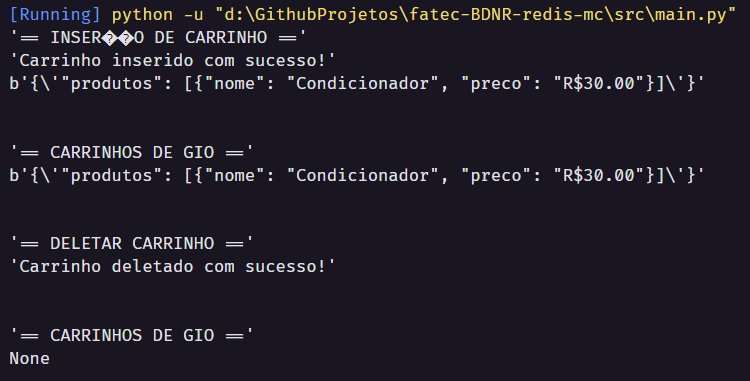
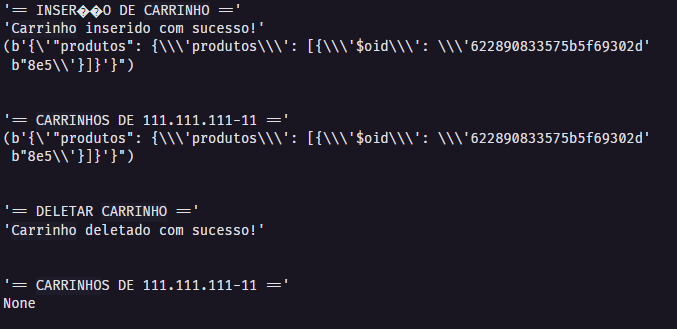
feat: get from mongo

diff --git a/src/controllers/cartController.py b/src/controllers/cartController.py
@@ -1,9 +1,21 @@
 import connectBD as connectDB
 from pprint import pprint
+import simplejson as json
+from bson import json_util
 
-def insert(userName, product):
-    myRedis = connectDB.connect()
-    key = f'carrinho:{userName}' 
+def getDataFromMongo(): 
+    mydb = connectDB.connectMongo()
+    mycol = mydb.usuario
+    results = mycol.find()
+    resultsJson = []
+    for result in results:
+        resultsJson.append(json.loads(json_util.dumps({"cpf": result["cpf"], "cart" : result["carrinho"]})))
+    return resultsJson
+
+
+def insert(userCpf, product):
+    myRedis = connectDB.connectRedis()
+    key = f'carrinho:{userCpf}' 
     value = {f'"produtos": {product}'}
     myRedis.set(key, f'{value}')
     pprint('== INSERÇÃO DE CARRINHO ==')
@@ -11,17 +23,17 @@ def insert(userName, product):
     pprint(myRedis.get(key))
     print('\n')
 
-def findCart(userName):
-    myRedis = connectDB.connect()
-    key = f'carrinho:{userName}' 
+def findCart(userCpf):
+    myRedis = connectDB.connectRedis()
+    key = f'carrinho:{userCpf}' 
     carts = myRedis.get(key)
-    pprint(f'== CARRINHOS DE {userName.upper()} ==')
+    pprint(f'== CARRINHOS DE {userCpf.upper()} ==')
     pprint(carts)
     print('\n')
 
-def deleteCart(userName):
-    myRedis = connectDB.connect()
-    key = f'carrinho:{userName}' 
+def deleteCart(userCpf):
+    myRedis = connectDB.connectRedis()
+    key = f'carrinho:{userCpf}' 
     myRedis.delete(key)
     pprint(f'== DELETAR CARRINHO ==')
     pprint('Carrinho deletado com sucesso!')

diff --git a/src/main.py b/src/main.py
@@ -1,7 +1,11 @@
 import controllers.cartController as cartController
 
 # CARRINHO DE COMPRAS
-cartController.insert('gio', '[{"nome": "Condicionador", "preco": "R$30.00"}]')
-cartController.findCart('gio')
-cartController.deleteCart('gio')
-cartController.findCart('gio')
+mongoData = cartController.getDataFromMongo()
+
+for data in mongoData:
+    cartController.insert(data["cpf"], data["cart"])
+
+cartController.findCart('111.111.111-11')
+cartController.deleteCart('111.111.111-11')
+cartController.findCart('111.111.111-11')

diff --git a/src/connectBD.py b/src/connectBD.py
@@ -1,8 +1,14 @@
+from pymongo import MongoClient
 import redis
 
-def connect():
+def connectRedis():
     myRedis = redis.Redis(
     host='<endpoint público>',
     port='<porta>', # Deve ser um number
     password='<password>')
     return myRedis
+
+def connectMongo():
+    client = MongoClient("mongodb+srv://<user>:<password>@<url>")
+    mydb = client.MercadoLivre
+    return mydb

diff --git a/README.md b/README.md
@@ -32,8 +32,8 @@ Uma vez que os dados estiverem corretos, execute o arquivo `src/main.py`.
       <th>Valor</th>
     </tr>
     <tr>
-      <td>carrinho:{nomeDoUsuario}</td>
-      <td>{"produtos": [{"nome": {nomeDoProduto}, "preco": {precoDoProduto}}]}</td>
+      <td>carrinho:{cpfDoUsuario}</td>
+      <td>{"produtos": {"id": "idDoProduto"}}</td>
     </tr>
   </table>
 </details>
@@ -46,4 +46,3 @@ Uma vez que os dados estiverem corretos, execute o arquivo `src/main.py`.
   <p>Resultados obtidos após executar as funções do arquivo <a href="https://github.com/gioliveirass/fatec-BDNR-redis-ml/blob/main/src/controllers/cartController.py">cartController.py</a>:</p>
   <p><img src = ".github\result.PNG" alt = "Deleção de um usuário" width = 600 /></p>
 </details>
-
